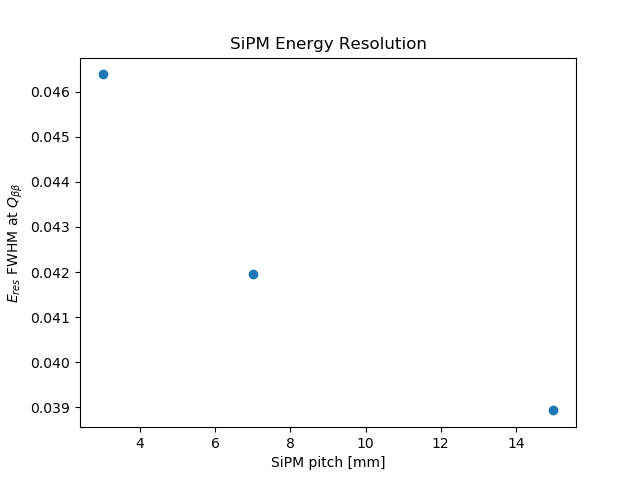
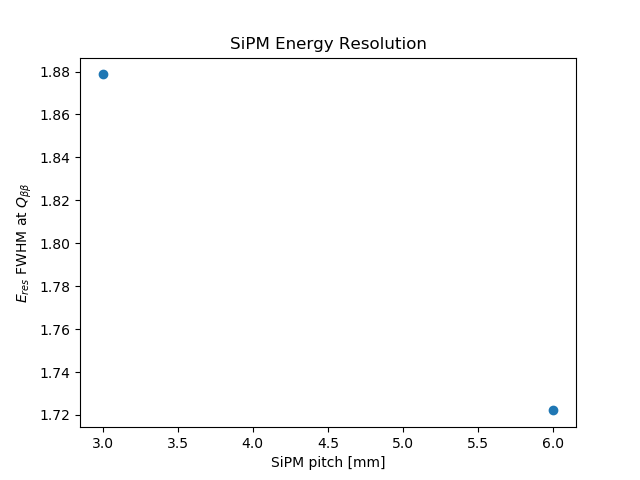
editing eres

diff --git a/sipmstudy_eres.py b/sipmstudy_eres.py
@@ -36,12 +36,12 @@ if local:
     mcs = [s3p15]
 else:
     outdir = '/n/holystore01/LABS/guenette_lab/Users/tcontreras/trackingplane/plots/'
-    indir = "/n/holystore01/LABS/guenette_lab/Users/tcontreras/nexus-production/output/highenergy/"
-    mcs = [s3p3, s3p7, s3p15] #, s3p7, s3p8, s3p9, s3p10, s3p15]                                                                                       
+    indir = "/n/holystore01/LABS/guenette_lab/Users/tcontreras/nexus-production/output/" #/highenergy/"
+    mcs = [s3p3, s3p6] #, s3p7, s3p8, s3p9, s3p10, s3p15]                                                                                       
 
 for mc in mcs:
     if mc['dir'] == "fullcoverage":
-        mc["files"] = [indir+mc['dir']+"/flex.kr83m."+str(i)+".nexus.h5" for i in range(1,nfiles+1)]
+        mc["files"] = [indir+mc['dir']+"/s3mmp3mm/flex.kr83m."+str(i)+".nexus.h5" for i in range(1,nfiles+1)]
     else:
         mc["files"] = [indir+'teflonhole_5mm/'+mc['dir']+"/flex.kr83m."+str(i)+".nexus.h5" for i in range(1,nfiles+1)]
     

diff --git a/ic_functions.py b/ic_functions.py
@@ -78,4 +78,4 @@ def EnergyRes(x):
     fwhm = 2.355*sigma
     e_event = 41 # keV
     eres = fwhm/mu
-    return eres/100., fwhm, mu
+    return eres, fwhm, mu
